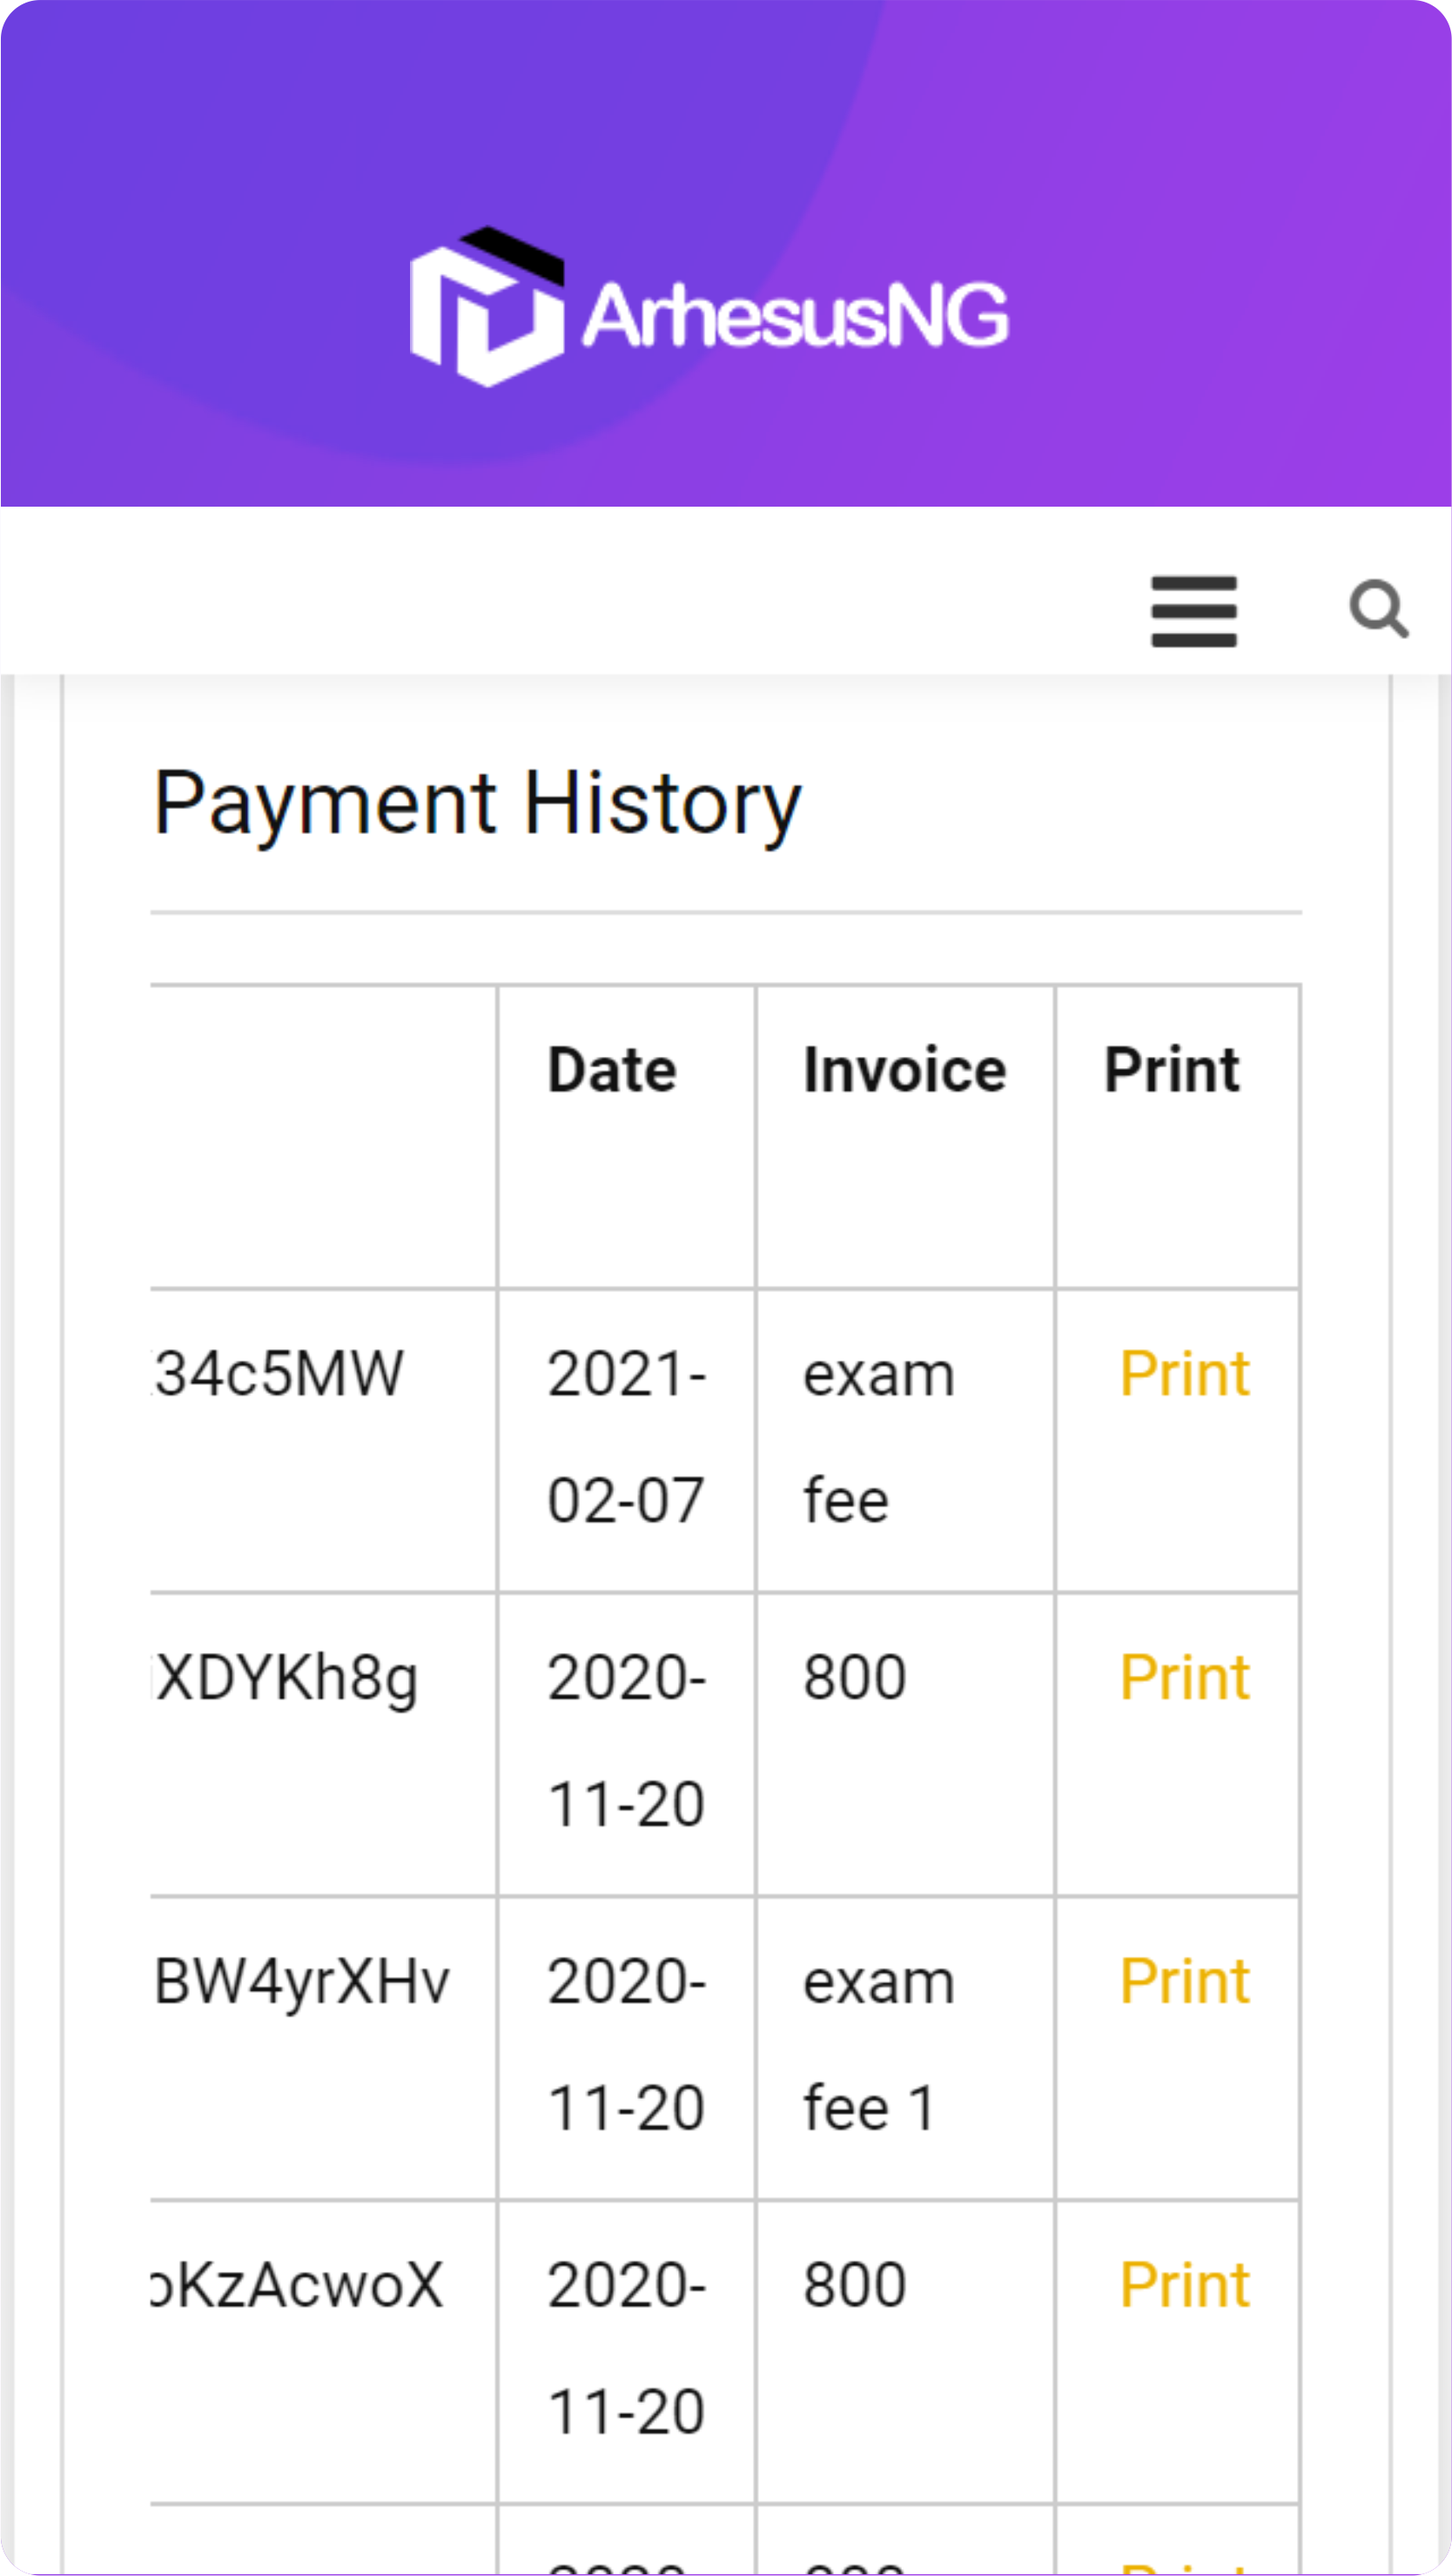
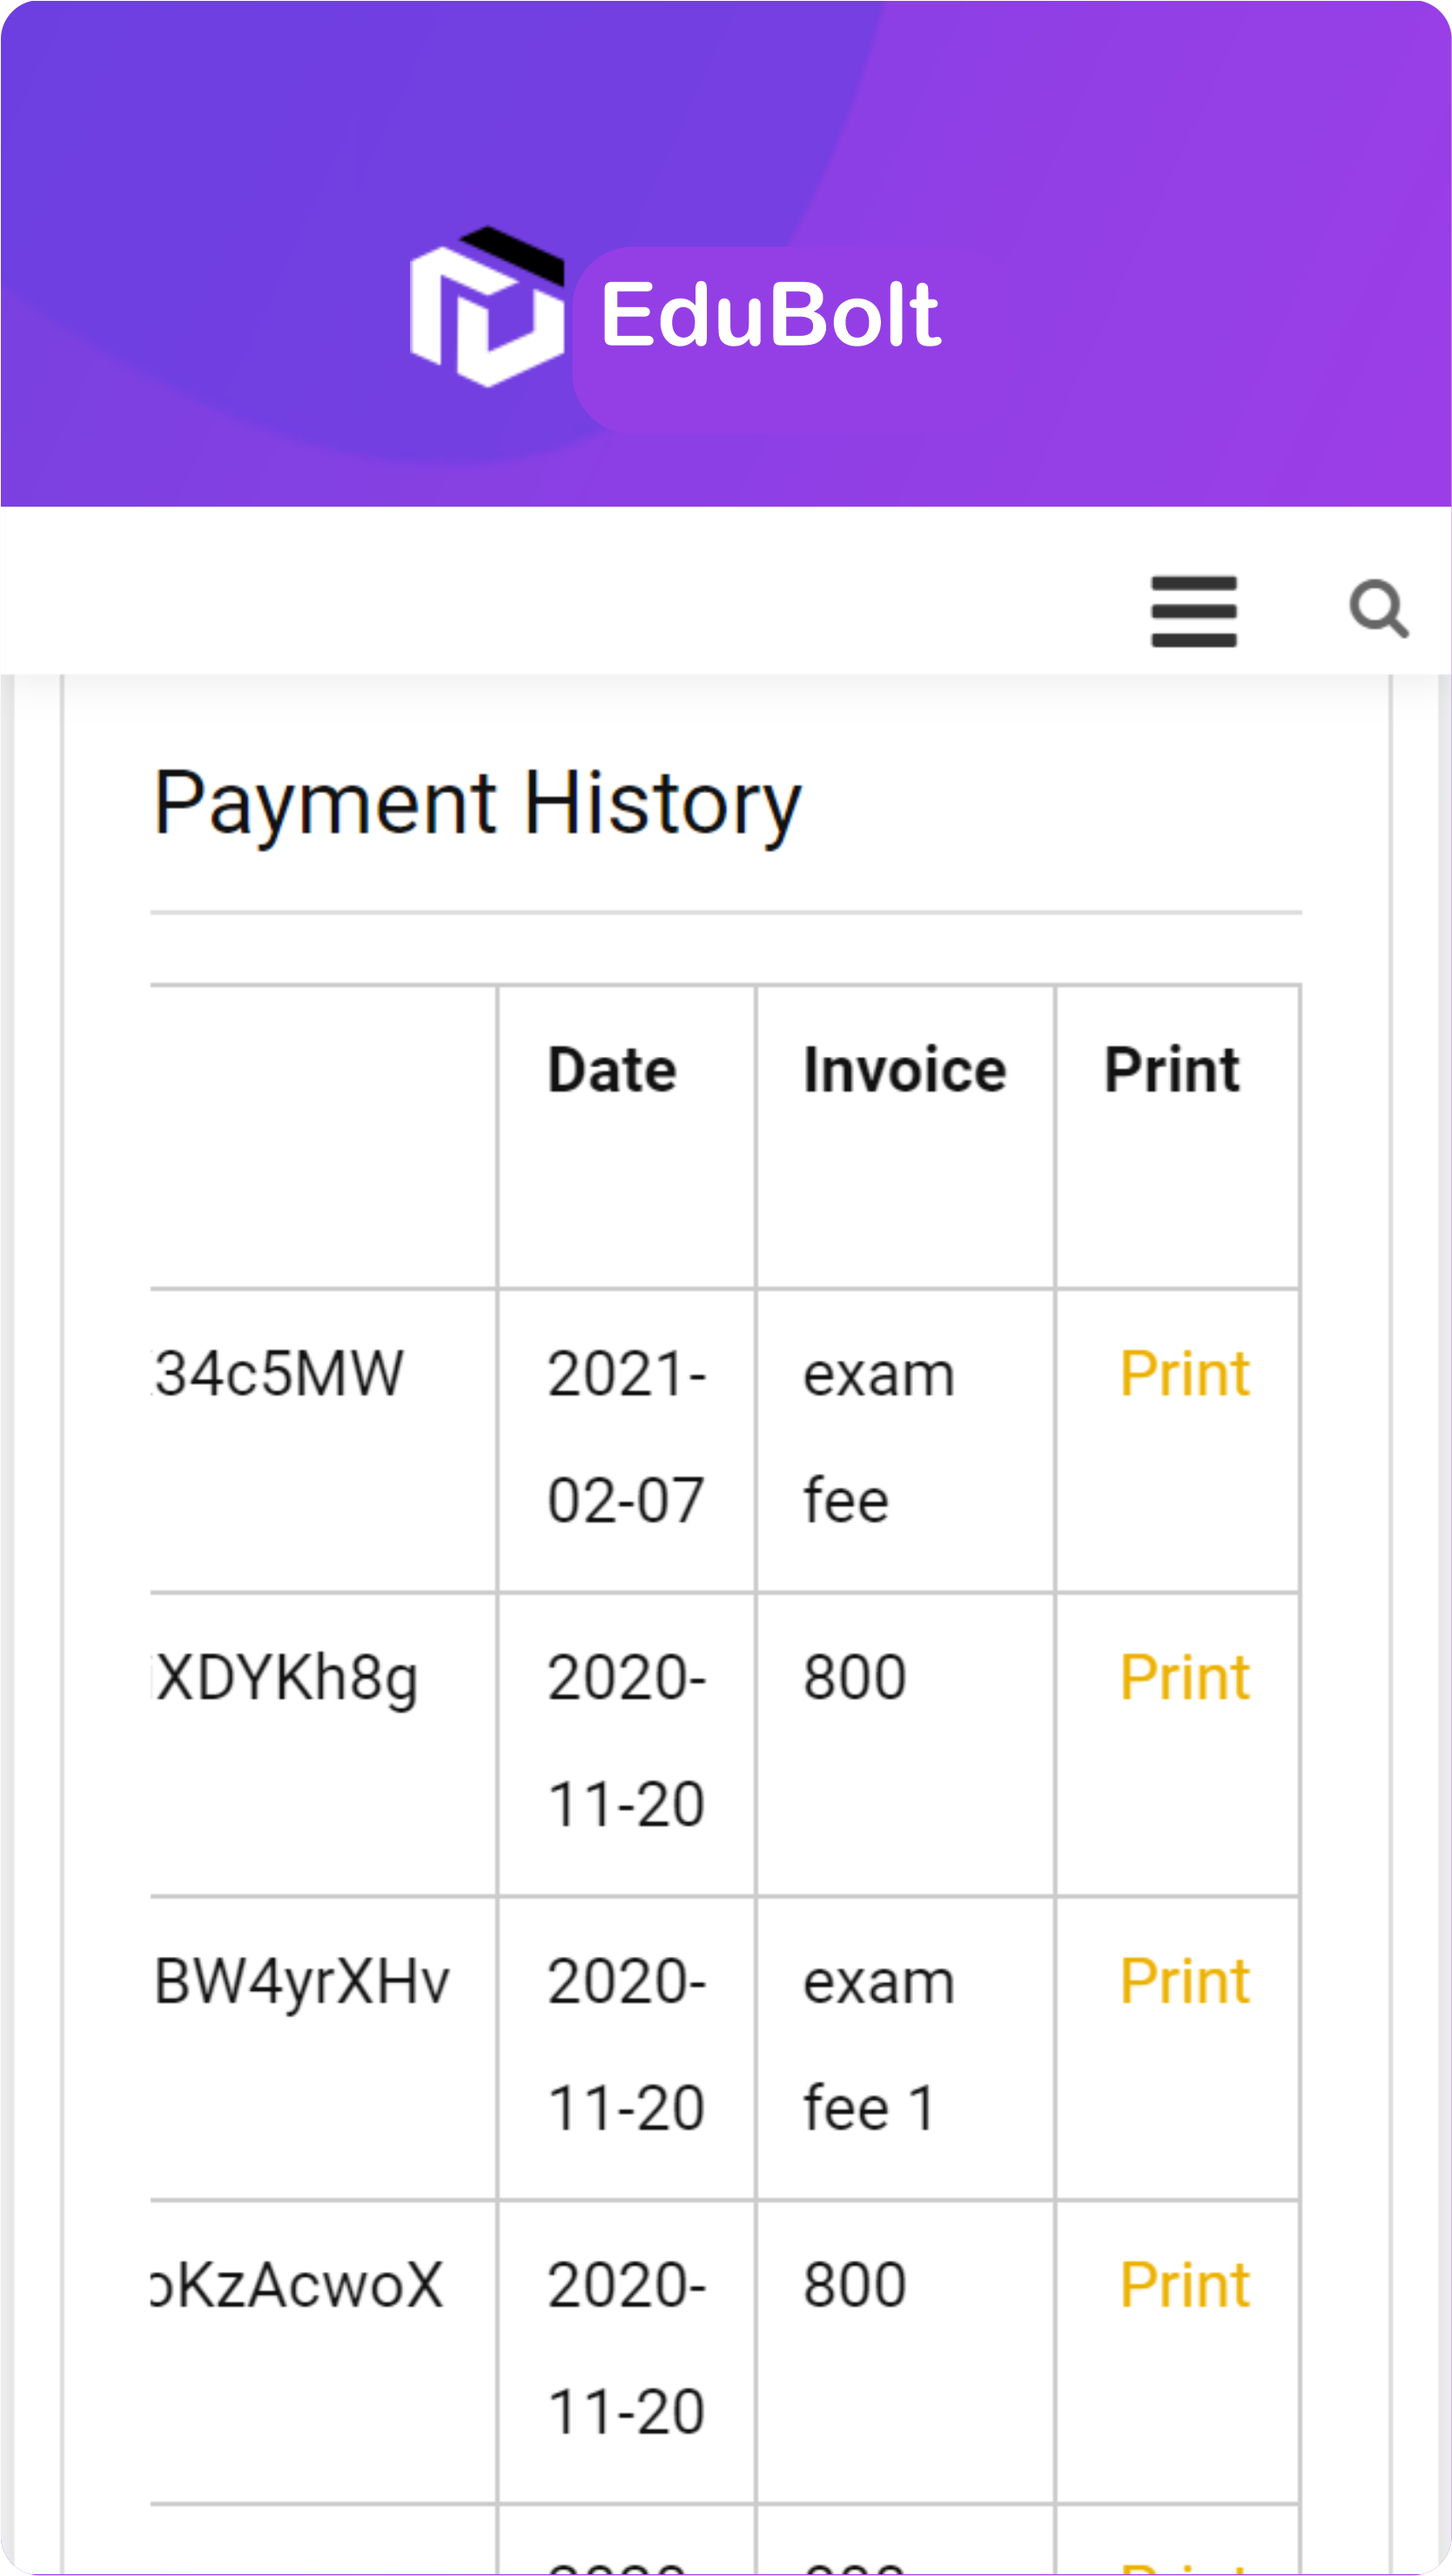
updated

Changed region(s): [[0.3741, 0.0933, 0.6859, 0.1865]]

diff --git a/index.html b/index.html
@@ -21,7 +21,7 @@
     <meta property="og:type" content="article"/>
 
     <!--title-->
-    <title>ArhesusNG | School Management Software</title>
+    <title>ArhesusNG | EduBolt</title>
 
     <!--favicon icon-->
     <link rel="icon" href="img/favicon.png" type="image/png" sizes="16x16">
@@ -166,7 +166,7 @@
             <div class="row align-items-center justify-content-between py-5">
                 <div class="col-md-7 col-lg-6">
                     <div class="hero-content-left text-white">
-                        <h1 class="text-white font-weight-bold">Education Always Comes First</h1>
+                        <h1 class="text-white font-weight-bold">Education Always Come First</h1>
                         <p class="lead">
                             We are here to improve the education of students. Our focus is on student success and easing staff
                             stress through intuitive platform that foster performance analysis.
@@ -206,9 +206,9 @@
             <div class="row justify-content-center">
                 <div class="col-lg-7 col-md-8">
                     <div class="section-heading text-center mb-5">
-                        <h2>Why Scholars Love ArhesusNG?</h2>
+                        <h2>Why Scholars Love EduBolt?</h2>
                         <p class="lead">
-                            Following reasons show advantages of ArhesusNG in your schools, activities and
+                            Following reasons show advantages of EduBolt in your schools, activities and
                             management.
                         </p>
                     </div>
@@ -280,7 +280,7 @@
                                     <div class="mr-3 icon-box">
                                         <img src="img/image-icon-3.png" alt="icon image" class="img-fluid">
                                     </div>
-                                    <p class="mb-0">All upcoming programmes/events of the school pop up as notifiers with ArhesusNG School Learning management.</p>
+                                    <p class="mb-0">All upcoming programmes/events of the school pop up as notifiers with EduBolt.</p>
                                 </div>
                                 <p></p>
                             </div>
@@ -321,7 +321,7 @@
                     <div class="feature-contents section-heading">
                         <h2>Explore our Software  <br>
                             Features</h2>
-                        <p>ArhesusNG incorporates a modern design that intuitively interfaces, saves time and provides better insight into <b>student 
+                        <p>EduBolt incorporates a modern design that intuitively interfaces, saves time and provides better insight into <b>student 
                             performance, attendance, Biographical Data, Bulk Editing, Calendar, Class & School-wide View, Contacts, Custom Roles, 
                             Demographic Data, Directory, Discipline, Enrollment, Enrollment History, Fees, Rosters, Transcripts, Virtual Class, 
                             Transportation, Hostel</b> and so much more.</p>
@@ -362,8 +362,8 @@
             <div class="row align-items-center justify-content-between">
                 <div class="col-md-7">
                     <div class="download-content text-white pb-100">
-                        <h2 class="text-white">ArhesusNG For Teachers</h2>
-                        <p class="lead">ArhesusNG smartly interfaces students and teachers via an intuitive platform that foster
+                        <h2 class="text-white">EduBolt For Teachers</h2>
+                        <p class="lead">EduBolt smartly interfaces students and teachers via an intuitive platform that foster
                              performance analysis. Including <b>Attendance, Biographical Data, Custom Roles, 
                              Enrollment, Enrollment History</b> and so much more.</p>
 
@@ -505,7 +505,7 @@
                                 <div id="collapse-1-2" class="collapse" aria-labelledby="heading-1-2"
                                      data-parent="#accordion-1">
                                     <div class="card-body">
-                                        <p>ArhesusNG gives you the power to manage all your schools with one single account. We also offer free data migration service for our enterprise customers.</p>
+                                        <p>EduBolt gives you the power to manage all your schools with one single account. We also offer free data migration service for our enterprise customers.</p>
                                     </div>
                                 </div>
                             </div>
@@ -537,7 +537,7 @@
                                 <div id="collapse-1-4" class="collapse" aria-labelledby="heading-1-4"
                                      data-parent="#accordion-1">
                                     <div class="card-body">
-                                        <p>ArhesusNG is GDPR COMPLIANT. From day one, we built our software to help you manage your school efficiently. We do not share/sell your data. The ArhesusNG software is optimize with end-to-end encription to ensure maximum data security.</p>
+                                        <p>EduBolt is GDPR COMPLIANT. From day one, we built our software to help you manage your school efficiently. We do not share/sell your data. The EduBolt software is optimize with end-to-end encription to ensure maximum data security.</p>
                                     </div>
                                 </div>
                             </div>
@@ -1024,7 +1024,7 @@
                 <div class="col-md-12 col-lg-4 mb-4 mb-md-4 mb-sm-4 mb-lg-0">
                     <div class="footer-nav-wrap text-white">
                         <img src="img/logo-white-1x.png" alt="footer logo" width="120" class="img-fluid mb-3">
-                        <p>ArhesusNG smartly interfaces students and teachers via an 
+                        <p>EduBolt smartly interfaces students and teachers via an 
                             intuitive platform that foster performance analysis.</p>
 
                         <div class="social-list-wrap">
